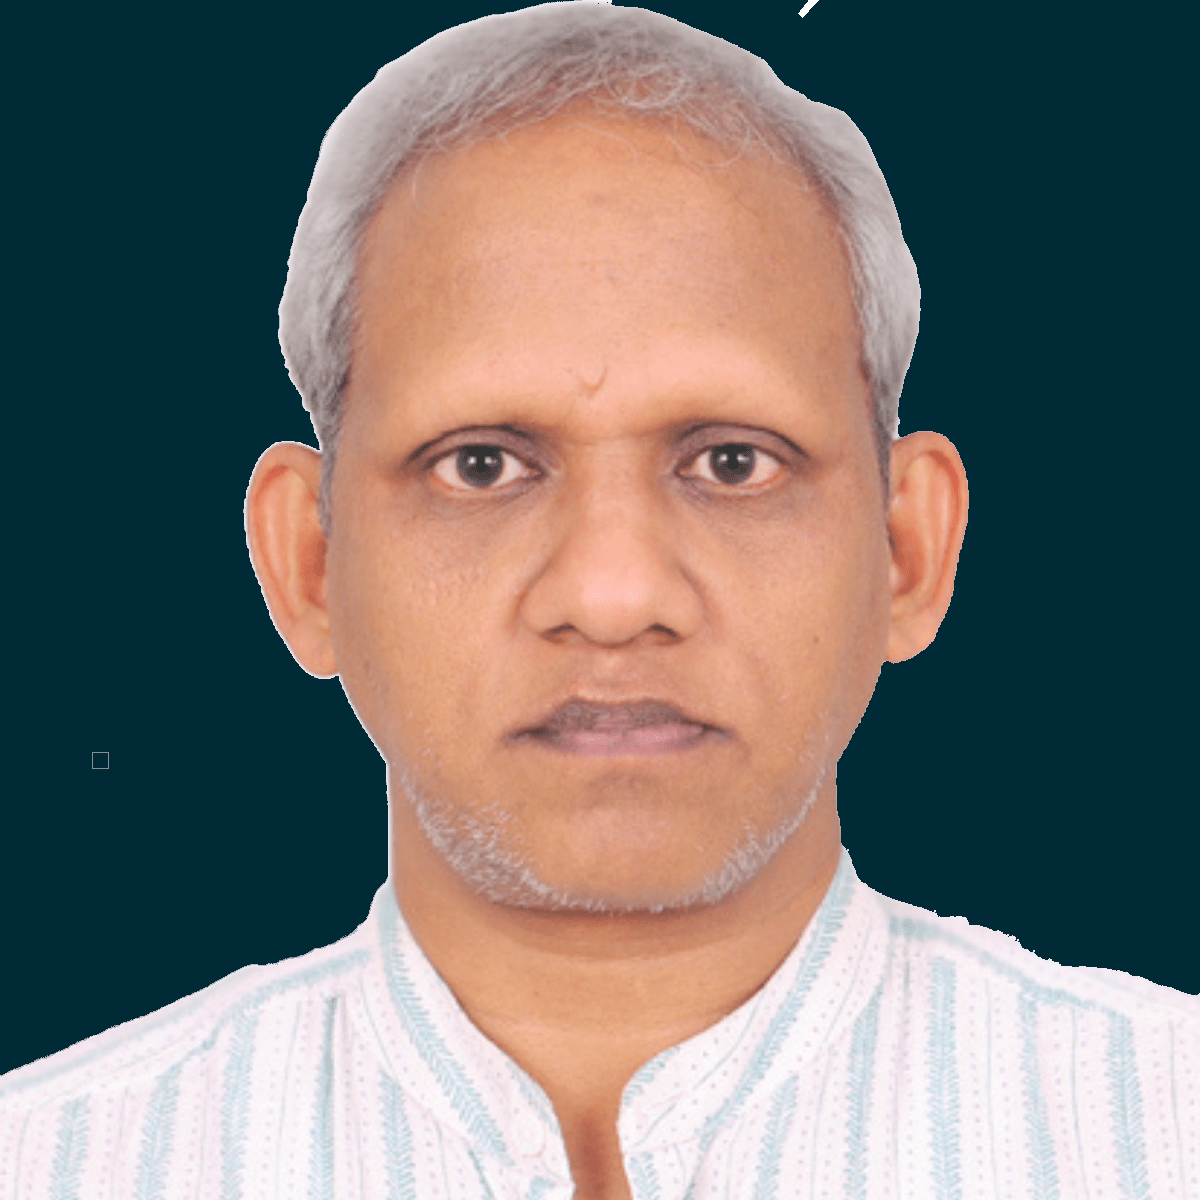
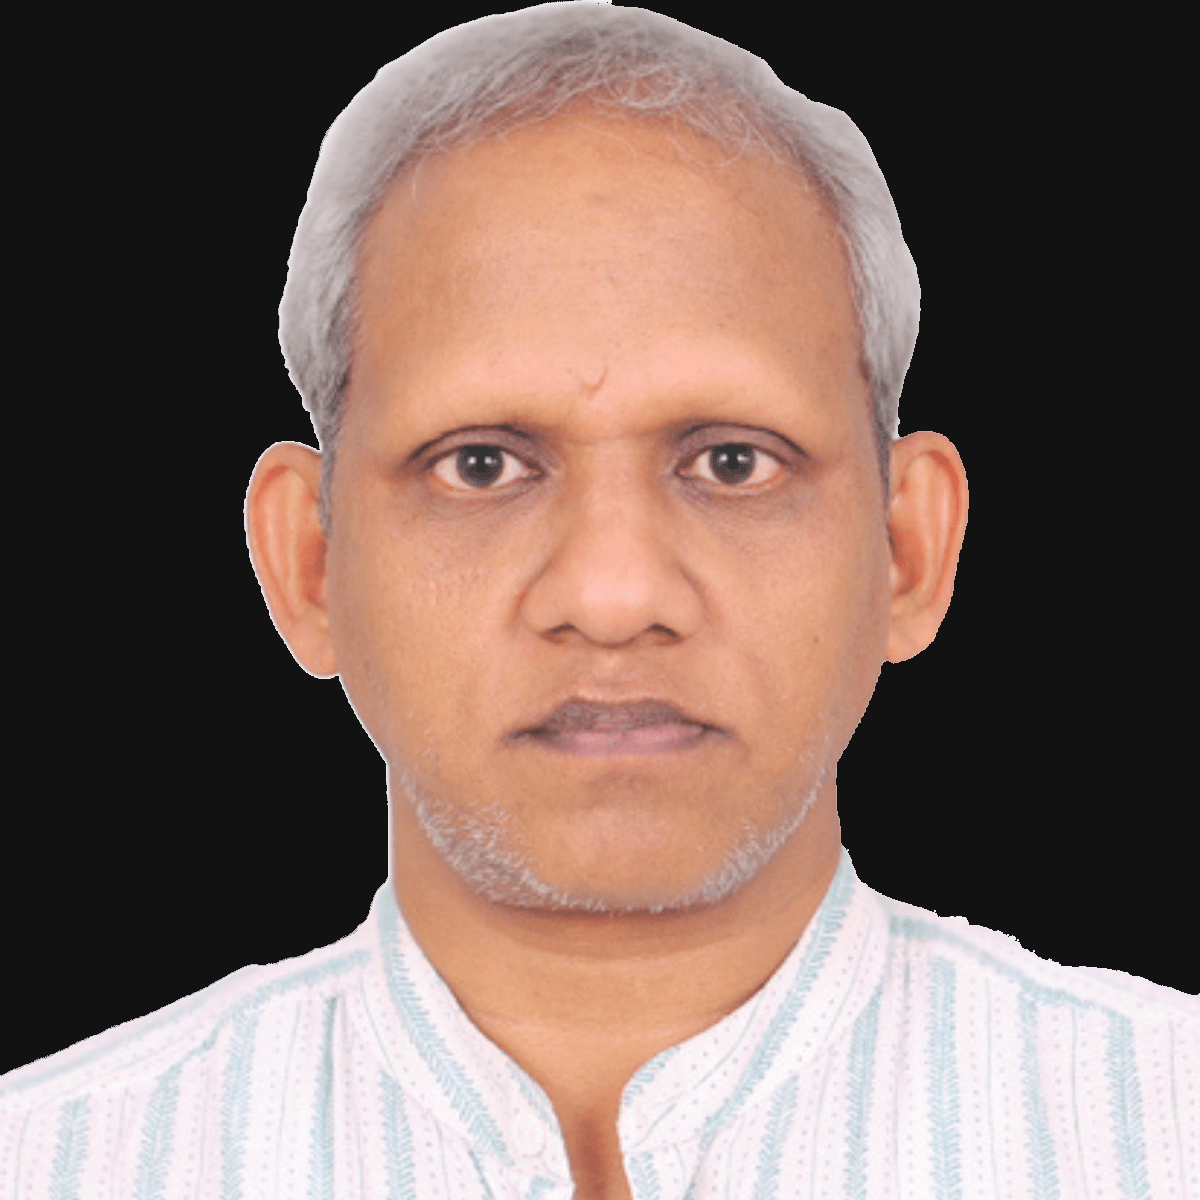
color theme changed

diff --git a/index.html b/index.html
@@ -17,7 +17,9 @@
     <!-- CSS Styling -->
     <style>
         body {
-            background-color: #002b36;
+	    background-color: #121212;
+            color: #e0e0e0;
+            /* background-color: #002b36; */
             color: #839496;
             font-family: Arial, sans-serif;
             line-height: 1.6;
@@ -79,7 +81,7 @@
             scroll-behavior: smooth;
         }
         .external::after {
-            content: "\f35d"; /* FontAwesome icon for external link */
+            content: "\f35d";
             font-family: "Font Awesome 5 Free";
             font-weight: 900;
             margin-left: 5px;
